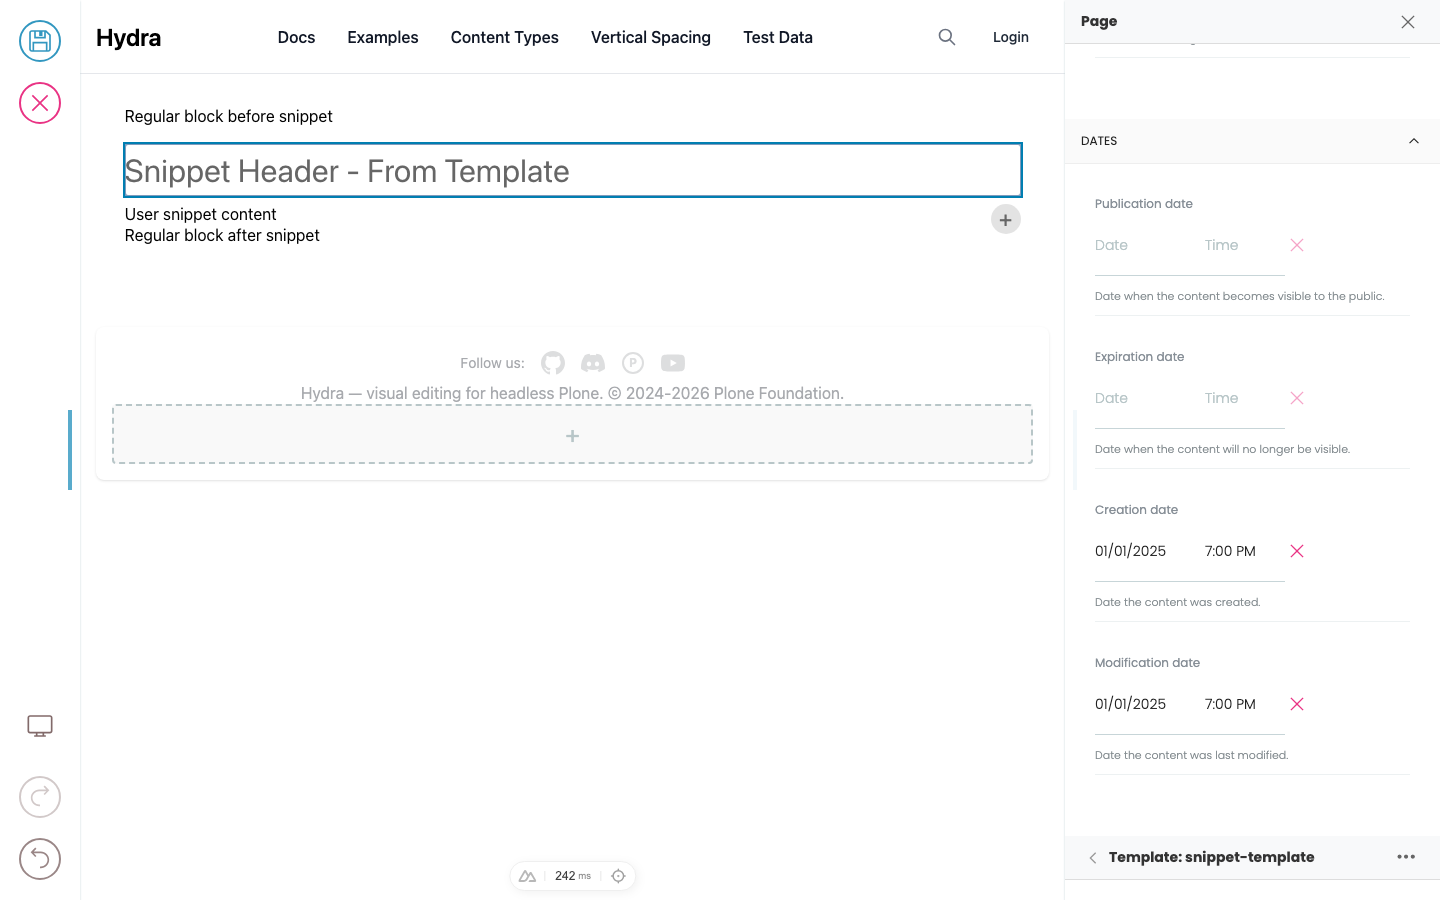
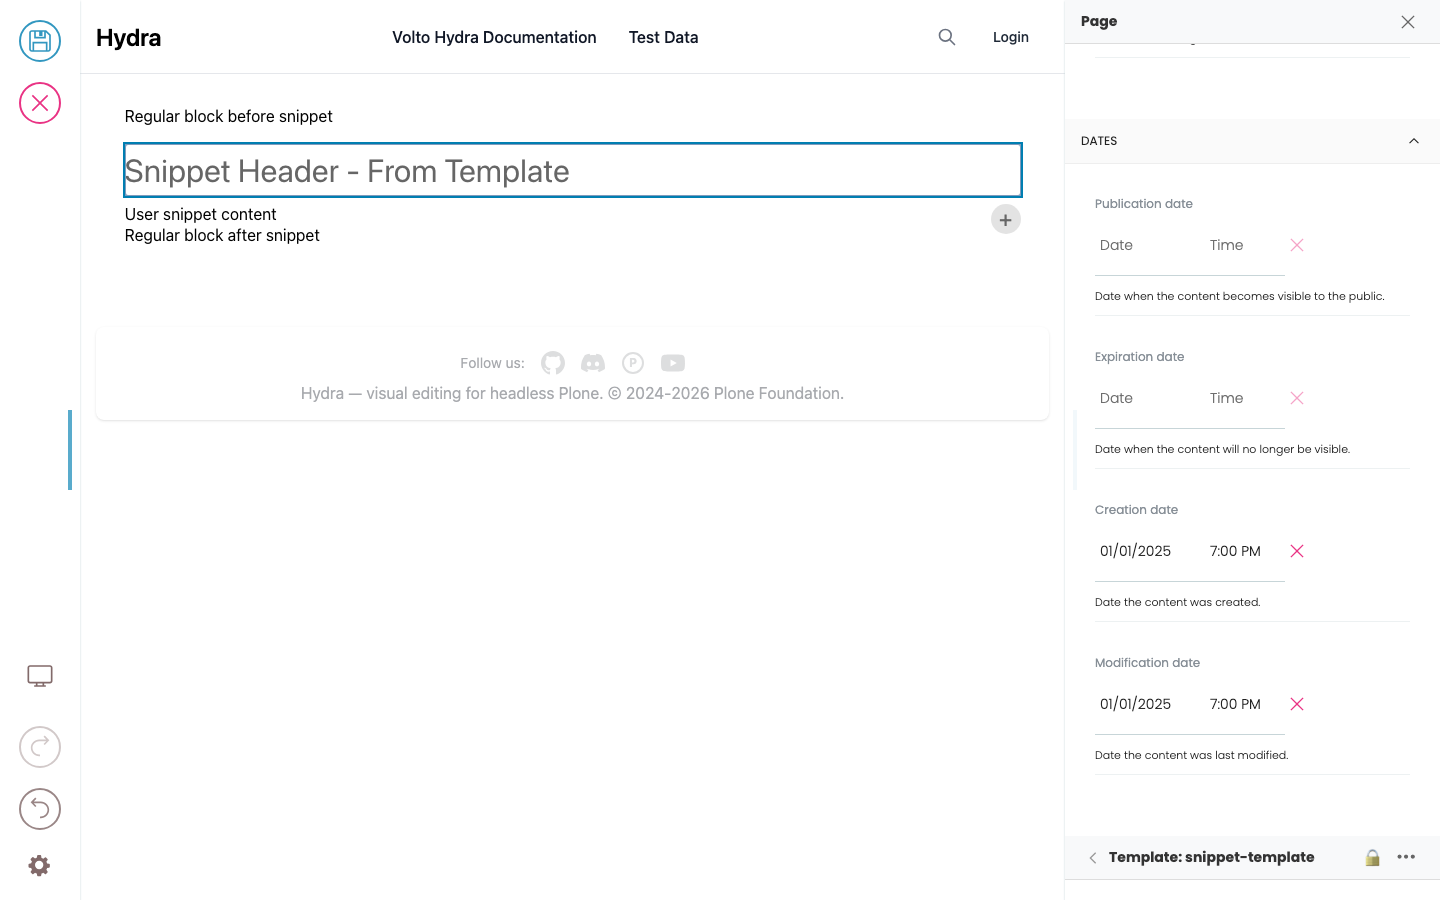
feat(templates): lock/unlock toggle replaces the Edit-template button
Reworks the template-edit affordance per review — the standalone
"Edit template" / "Done editing template" button was inconsistent UX.

- Removes the standalone button. The template instance's sidebar "blind"
  (its header bar) now carries a lock/unlock toggle: 🔒 = locked (not
  editing) → click to unlock & edit; 🔓 = editing → click to lock (exit).
  Permission-gated; keeps the .edit-template-toggle contract (class +
  aria-pressed) so existing specs keep working.
- Adds an "Edit template" / "Done editing template" item to that bar's ⋯
  dropdown (DropdownMenu gains isTemplateInstance / isEditingTemplate /
  onToggleTemplateEdit props).
- Keeps the in-canvas Quanta toolbar lock from the previous commit — both
  bars now toggle template edit mode.

Docs: rewrite "Editing content inside a template" in the editor guide to
describe the lock/unlock toggle + dropdown item, with two regenerated
screenshots (locked vs editing). capture.spec.ts gains template-edit-locked
and template-edit-editing captures (screenshots-nuxt project).

Tests: new spec for the ⋯ "Edit template" item toggling edit mode; the
permission spec now asserts the disabled lock (🔒) instead of button text.
Full template-edit-mode suite green (44 passed, 1 skipped) on a fresh server.

Claude-Session: https://claude.ai/code/session_01LTYzaaivqmGsem6U49yatY

diff --git a/packages/volto-hydra/src/components/Sidebar/ParentBlocksWidget.jsx b/packages/volto-hydra/src/components/Sidebar/ParentBlocksWidget.jsx
@@ -21,7 +21,6 @@ import { createPortal } from 'react-dom';
 import {
   getTemplateInstanceSchema,
   getTemplateBlockSettingsSchema,
-  getTemplateEditButtonState,
   blockKindFromFlags,
   blockKindFlags,
 } from './templateSettingsSchema';
@@ -201,6 +200,20 @@ const ParentBlockSection = ({
   // Get pathInfo for template instance detection
   const pathInfo = blockPathMap?.[blockId];
 
+  // This section IS a top-level template instance → it carries the lock/unlock
+  // toggle (on this "blind" header bar) + the "Edit template" dropdown item, which
+  // replace the old standalone Edit-template button. Locked (🔒) = not editing;
+  // unlocked (🔓) = editing this template. Permission-gated on the template doc.
+  const isThisTemplateInstance =
+    !!pathInfo?.isTemplateInstance && !pathInfo?.isNestedTemplateInstance;
+  const isEditingThisTemplate = templateEditMode === blockId;
+  const canEditTemplate =
+    templatePermissions?.[pathInfo?.templateId]?.can_edit ?? true;
+  const canToggleTemplateEdit =
+    isThisTemplateInstance && !!onToggleTemplateEditMode && canEditTemplate;
+  const toggleTemplateEdit = () =>
+    onToggleTemplateEditMode(isEditingThisTemplate ? null : blockId);
+
   const [menuOpen, setMenuOpen] = React.useState(false);
   const [menuButtonRect, setMenuButtonRect] = React.useState(null);
   const menuButtonRef = React.useRef(null);
@@ -306,6 +319,43 @@ const ParentBlockSection = ({
               </div>
             );
           })()}
+          {/* Lock/unlock toggle for a top-level template instance — the obvious,
+              consistent replacement for the old standalone Edit-template button.
+              🔒 = locked (not editing) → click to unlock & edit; 🔓 = editing →
+              click to lock (exit). Keeps the .edit-template-toggle contract. */}
+          {isThisTemplateInstance && onToggleTemplateEditMode && (
+            <button
+              type="button"
+              className={`edit-template-toggle${isEditingThisTemplate ? ' edit-template-toggle--active' : ''}`}
+              aria-pressed={isEditingThisTemplate}
+              aria-label={isEditingThisTemplate ? 'Lock template (stop editing)' : 'Unlock template to edit'}
+              disabled={!canEditTemplate}
+              title={
+                canEditTemplate
+                  ? isEditingThisTemplate
+                    ? 'Locking exits template edit mode'
+                    : 'Unlock to edit this template’s structure'
+                  : 'You don’t have permission to edit this template (requires “Modify portal content”).'
+              }
+              onClick={toggleTemplateEdit}
+              style={{
+                background: 'none',
+                border: 'none',
+                padding: '4px',
+                cursor: canEditTemplate ? 'pointer' : 'not-allowed',
+                fontSize: '15px',
+                display: 'flex',
+                alignItems: 'center',
+                justifyContent: 'center',
+                borderRadius: '2px',
+                opacity: canEditTemplate ? 1 : 0.5,
+              }}
+              onMouseEnter={(e) => canEditTemplate && (e.currentTarget.style.background = '#e8e8e8')}
+              onMouseLeave={(e) => (e.currentTarget.style.background = 'none')}
+            >
+              {isEditingThisTemplate ? '🔓' : '🔒'}
+            </button>
+          )}
           <button
             ref={menuButtonRef}
             className="menu-trigger"
@@ -344,6 +394,9 @@ const ParentBlockSection = ({
                 isReadonly={!!blockData?.readOnly}
                 isInTemplate={!!blockData?.templateId}
                 onMakeTemplate={onBlockAction ? () => onBlockAction('makeTemplate', blockId) : null}
+                isTemplateInstance={isThisTemplateInstance}
+                isEditingTemplate={isEditingThisTemplate}
+                onToggleTemplateEdit={canToggleTemplateEdit ? toggleTemplateEdit : null}
               />
             );
           })()}
@@ -701,20 +754,6 @@ const ParentBlocksWidget = ({
   // Get parent chain
   const parentIds = getParentChain(selectedBlock, blockPathMap);
 
-  // The (non-nested) template instance the selection belongs to — drives the Edit-template
-  // button at the top of the panel. Walk up the selection's parent chain to find it.
-  const findTemplateInstance = (bid) => {
-    let cur = bid;
-    while (cur) {
-      const pi = blockPathMap[cur];
-      if (!pi) break;
-      if (pi.isTemplateInstance && !pi.isNestedTemplateInstance) return cur;
-      cur = pi.parentId;
-    }
-    return null;
-  };
-  const templateInstanceBlockId = findTemplateInstance(selectedBlock);
-
   // Get current block data and type from blockPathMap (single source of truth)
   // For virtual blocks (like template instances), use blockData from pathMap
   const pathInfo = blockPathMap[selectedBlock];
@@ -731,41 +770,9 @@ const ParentBlocksWidget = ({
     <>
       {createPortal(
         <>
-          {/* Edit-template button — first in the virtual-blocks panel; the obvious,
-              permission-gated way to enter/exit template edit mode (replaces the buried
-              editTemplate checkbox). */}
-          {templateInstanceBlockId && (() => {
-            const tplInfo = blockPathMap[templateInstanceBlockId];
-            const canEdit = templatePermissions?.[tplInfo?.templateId]?.can_edit ?? true;
-            const isEditing = templateEditMode === templateInstanceBlockId;
-            const btn = getTemplateEditButtonState({ canEdit, isEditing });
-            return (
-              <button
-                type="button"
-                className={`edit-template-toggle${isEditing ? ' edit-template-toggle--active' : ''}`}
-                aria-pressed={isEditing}
-                disabled={btn.disabled}
-                title={btn.title}
-                onClick={() =>
-                  onToggleTemplateEditMode(isEditing ? null : templateInstanceBlockId)
-                }
-                style={{
-                  width: '100%',
-                  padding: '8px 12px',
-                  marginBottom: '8px',
-                  border: '1px solid',
-                  borderColor: isEditing ? '#0b78d0' : '#ccc',
-                  borderRadius: '4px',
-                  background: isEditing ? '#0b78d0' : '#fff',
-                  color: btn.disabled ? '#999' : isEditing ? '#fff' : '#0b78d0',
-                  fontWeight: 600,
-                  cursor: btn.disabled ? 'not-allowed' : 'pointer',
-                }}
-              >
-                {btn.label}
-              </button>
-            );
-          })()}
+          {/* The template edit toggle is no longer a standalone button here — it now
+              lives as a lock/unlock icon on the template instance's header bar (and in
+              that bar's ⋯ dropdown), plus the Quanta toolbar lock in-canvas. */}
           {/* Parent blocks with headers + settings */}
           {parentIds.map((parentId, index) => {
             // For virtual blocks (like template instances), use blockData from pathMap

diff --git a/tests-playwright/integration/template-edit-mode.spec.ts b/tests-playwright/integration/template-edit-mode.spec.ts
@@ -1663,13 +1663,15 @@ test.describe('Template Edit Mode - Permissions', () => {
     await helper.waitForSidebarOpen();
     await helper.escapeToParent();
 
-    // The Edit-template button is present but DISABLED (permission-gated), with a tooltip.
+    // The lock toggle on the template bar is present but DISABLED (permission-gated),
+    // with a tooltip. (It shows 🔒; the "Edit template" label lives in the ⋯ dropdown,
+    // which is omitted entirely when the user lacks permission.)
     const editButton = page.locator('.edit-template-toggle');
     await expect(editButton).toBeVisible({ timeout: 10000 });
     await expect(editButton).toBeDisabled();
     // Tooltip confirms can_edit=false reached the button (threading + key match).
     await expect(editButton).toHaveAttribute('title', /permission|Modify portal content/i);
-    await expect(editButton).toContainText('Edit template');
+    await expect(editButton).toContainText('🔒');
   });
 
   test('creating a template in a folder without Add permission is blocked at save', async ({ page }) => {
@@ -1790,5 +1792,42 @@ test.describe('Template Edit Mode - Lock affordance + metadata gating', () => {
     // Editing → both enabled.
     await expect(nameInput).toBeEnabled();
     await expect(folderBrowse).toBeEnabled();
+  });
+
+  // The template instance's sidebar bar carries a 🔒/🔓 lock toggle (the
+  // .edit-template-toggle) AND an "Edit template" item in its ⋯ dropdown — both
+  // replace the old standalone Edit/Done button.
+  test('the template bar dropdown has an Edit template item that toggles edit mode', async ({ page }) => {
+    const helper = new AdminUIHelper(page);
+    await helper.login();
+    await helper.navigateToEdit('/template-test-page');
+
+    // Select the template instance.
+    const { blockId: headerBlockId } = await helper.waitForBlockByContent(TEMPLATE_HEADER_CONTENT);
+    await helper.clickBlockInIframe(headerBlockId);
+    await helper.waitForSidebarOpen();
+    await helper.escapeToParent();
+
+    // The lock toggle on the bar reads 🔒 (locked, not editing).
+    const lockToggle = page.locator('.edit-template-toggle');
+    await expect(lockToggle).toBeVisible({ timeout: 5000 });
+    await expect(lockToggle).toHaveAttribute('aria-pressed', 'false');
+    await expect(lockToggle).toContainText('🔒');
+
+    // Open the ⋯ dropdown on the current (instance) section header and click "Edit template".
+    await page.locator('.sidebar-section-header[data-is-current="true"] .menu-trigger').click();
+    const editItem = page.locator('.volto-hydra-dropdown-item.edit-template-item');
+    await expect(editItem).toBeVisible({ timeout: 5000 });
+    await expect(editItem).toContainText('Edit template');
+    await editItem.click();
+
+    // Edit mode is now active: outside blocks lock; the bar toggle flips to 🔓.
+    await helper.waitForBlockReadonly(STANDALONE_BLOCK_1);
+    await expect(lockToggle).toHaveAttribute('aria-pressed', 'true');
+    await expect(lockToggle).toContainText('🔓');
+
+    // The dropdown item now reads "Done editing template".
+    await page.locator('.sidebar-section-header[data-is-current="true"] .menu-trigger').click();
+    await expect(editItem).toContainText('Done editing template');
   });
 });

diff --git a/tests-playwright/screenshots/capture.spec.ts b/tests-playwright/screenshots/capture.spec.ts
@@ -215,6 +215,47 @@ test.describe('Editor Guide screenshots', () => {
     await snap(page, 'template-locked');
   });
 
+  test('template-edit-locked — template instance selected, lock on the bar (not editing)', async ({ page }) => {
+    const helper = new AdminUIHelper(page);
+    await helper.login();
+    await helper.navigateToEdit('/template-test-page');
+
+    // Select a fixed template block, then step up to the template instance — its
+    // sidebar bar shows the 🔒 lock (not editing) and the Template Settings form
+    // with Name/Location disabled.
+    const { blockId: headerBlockId } = await helper.waitForBlockByContent('Template Header - From Template');
+    await helper.clickBlockInIframe(headerBlockId);
+    await helper.waitForSidebarOpen();
+    await helper.escapeToParent();
+    await expect(page.locator('.edit-template-toggle')).toBeVisible({ timeout: 5000 });
+    await expect(page.locator('.edit-template-toggle')).toHaveAttribute('aria-pressed', 'false');
+
+    await snap(page, 'template-edit-locked');
+  });
+
+  test('template-edit-editing — unlocked, editing the template (unlock icon, fields enabled)', async ({ page }) => {
+    const helper = new AdminUIHelper(page);
+    await helper.login();
+    await helper.navigateToEdit('/template-test-page');
+
+    const { blockId: headerBlockId } = await helper.waitForBlockByContent('Template Header - From Template');
+    await helper.clickBlockInIframe(headerBlockId);
+    await helper.waitForSidebarOpen();
+    await helper.escapeToParent();
+
+    // Unlock → template edit mode. Outside blocks lock; the bar toggle flips to 🔓.
+    await page.locator('.edit-template-toggle').click();
+    await helper.waitForBlockReadonly('standalone-block-1');
+    await expect(page.locator('.edit-template-toggle')).toHaveAttribute('aria-pressed', 'true', { timeout: 5000 });
+
+    // Re-select the instance so its (now enabled) Template Settings are shown.
+    await helper.clickBlockInIframe(headerBlockId);
+    await helper.waitForSidebarOpen();
+    await helper.escapeToParent();
+
+    await snap(page, 'template-edit-editing');
+  });
+
   test('frontend-switcher — toolbar panel with viewport + frontends', async ({ page }) => {
     const helper = new AdminUIHelper(page);
     await helper.login();

diff --git a/packages/volto-hydra/src/components/Toolbar/DropdownMenu.jsx b/packages/volto-hydra/src/components/Toolbar/DropdownMenu.jsx
@@ -48,6 +48,9 @@ const DropdownMenu = ({
   isReadonly = false, // Template blocks that can't be edited
   isInTemplate = false, // Whether block is already part of a template
   onMakeTemplate, // Handler for "Make Template" action
+  isTemplateInstance = false, // This block is a top-level template instance (host)
+  isEditingTemplate = false, // Currently editing this template
+  onToggleTemplateEdit = null, // Toggle template edit mode for this instance: () => void
   multiSelectedUids, // Array of multi-selected block UIDs (for copy/cut/delete)
   hasClipboard = false, // Whether blocksClipboard has content to paste
   pasteAllowed = true, // Whether clipboard types are allowed in target container
@@ -255,6 +258,39 @@ const DropdownMenu = ({
             onClick={handleSettings}
           >
             ⚙️ Settings
+          </div>
+          <div
+            style={{
+              height: '1px',
+              background: 'rgba(0, 0, 0, 0.1)',
+              margin: '0 10px',
+            }}
+          />
+        </>
+      )}
+      {/* Edit template / Done editing — labelled entry into template edit mode for a
+          top-level template instance. Complements the lock/unlock icon on the header
+          bar and the in-canvas Quanta toolbar lock. */}
+      {onToggleTemplateEdit && isTemplateInstance && (
+        <>
+          <div
+            className="volto-hydra-dropdown-item edit-template-item"
+            style={{
+              display: 'flex',
+              alignItems: 'center',
+              padding: '10px',
+              cursor: 'pointer',
+              fontSize: '15px',
+              fontWeight: '500',
+            }}
+            onMouseEnter={(e) => (e.target.style.background = '#f0f0f0')}
+            onMouseLeave={(e) => (e.target.style.background = 'transparent')}
+            onClick={() => {
+              onClose();
+              onToggleTemplateEdit();
+            }}
+          >
+            {isEditingTemplate ? '🔓 Done editing template' : '🔒 Edit template'}
           </div>
           <div
             style={{

diff --git a/docs/what-editors-will-experience/templates-and-layouts.md b/docs/what-editors-will-experience/templates-and-layouts.md
@@ -64,12 +64,25 @@ The point of `slotId` is that two layouts can share the same set of region names
 
 ## Editing content inside a template
 
-Editing inside a template block (one that came from the merged template) goes through a special **template edit mode**. While in template edit mode:
+A template is **locked** by default: you're editing *this page's* content, and the template's fixed parts are read-only. To change the template itself you **unlock** it, which enters a special **template edit mode**.
+
+Select any block from the template and click the **lock icon** 🔒 — it appears in two places:
+
+- on the block's **Quanta toolbar** in the canvas (where the drag handle would be), and
+- on the template's bar in the **sidebar** ("Template: *name*"), next to its `⋯` menu.
+
+That same `⋯` menu also has an **Edit template** item. Any of these enters template edit mode: the lock turns into an **unlock** icon 🔓, and the sidebar's Template Name / Save Location become editable (they're disabled while locked — you can't rename or relocate a template without editing it).
+
+![A template instance selected but locked: the template is outlined and its sidebar bar "Template: test-layout" shows a closed lock icon 🔒; the Template Name / Save Location fields are disabled.](_images/template-edit-locked.png)
+
+While in template edit mode:
 
 - Blocks inside the template instance become editable, including those marked readonly.
 - Blocks outside the template instance become locked.
 
-This lets you edit the template's *definition* without leaving the page — the changes propagate back to the saved template, so any other page using it picks up the change. Switch out of template edit mode (typically a toolbar action labelled "Edit template" / "Done") to go back to editing this page's content.
+![The same template unlocked for editing: the sidebar bar shows an open lock 🔓, the Template Name / Save Location fields are enabled, and the template's structure (Header, Grid, slots) is listed below.](_images/template-edit-editing.png)
+
+This lets you edit the template's *definition* without leaving the page — the changes propagate back to the saved template, so any other page using it picks up the change. **Lock it again** — click the 🔓, or pick "Done editing template" from the `⋯` menu — to go back to editing this page's content.
 
 ```{warning}
 Edits made in template edit mode update the **template** itself, which may affect other pages. If you only want to override a value for this one page, look for a non-readonly version of the field on this page rather than entering template edit mode.